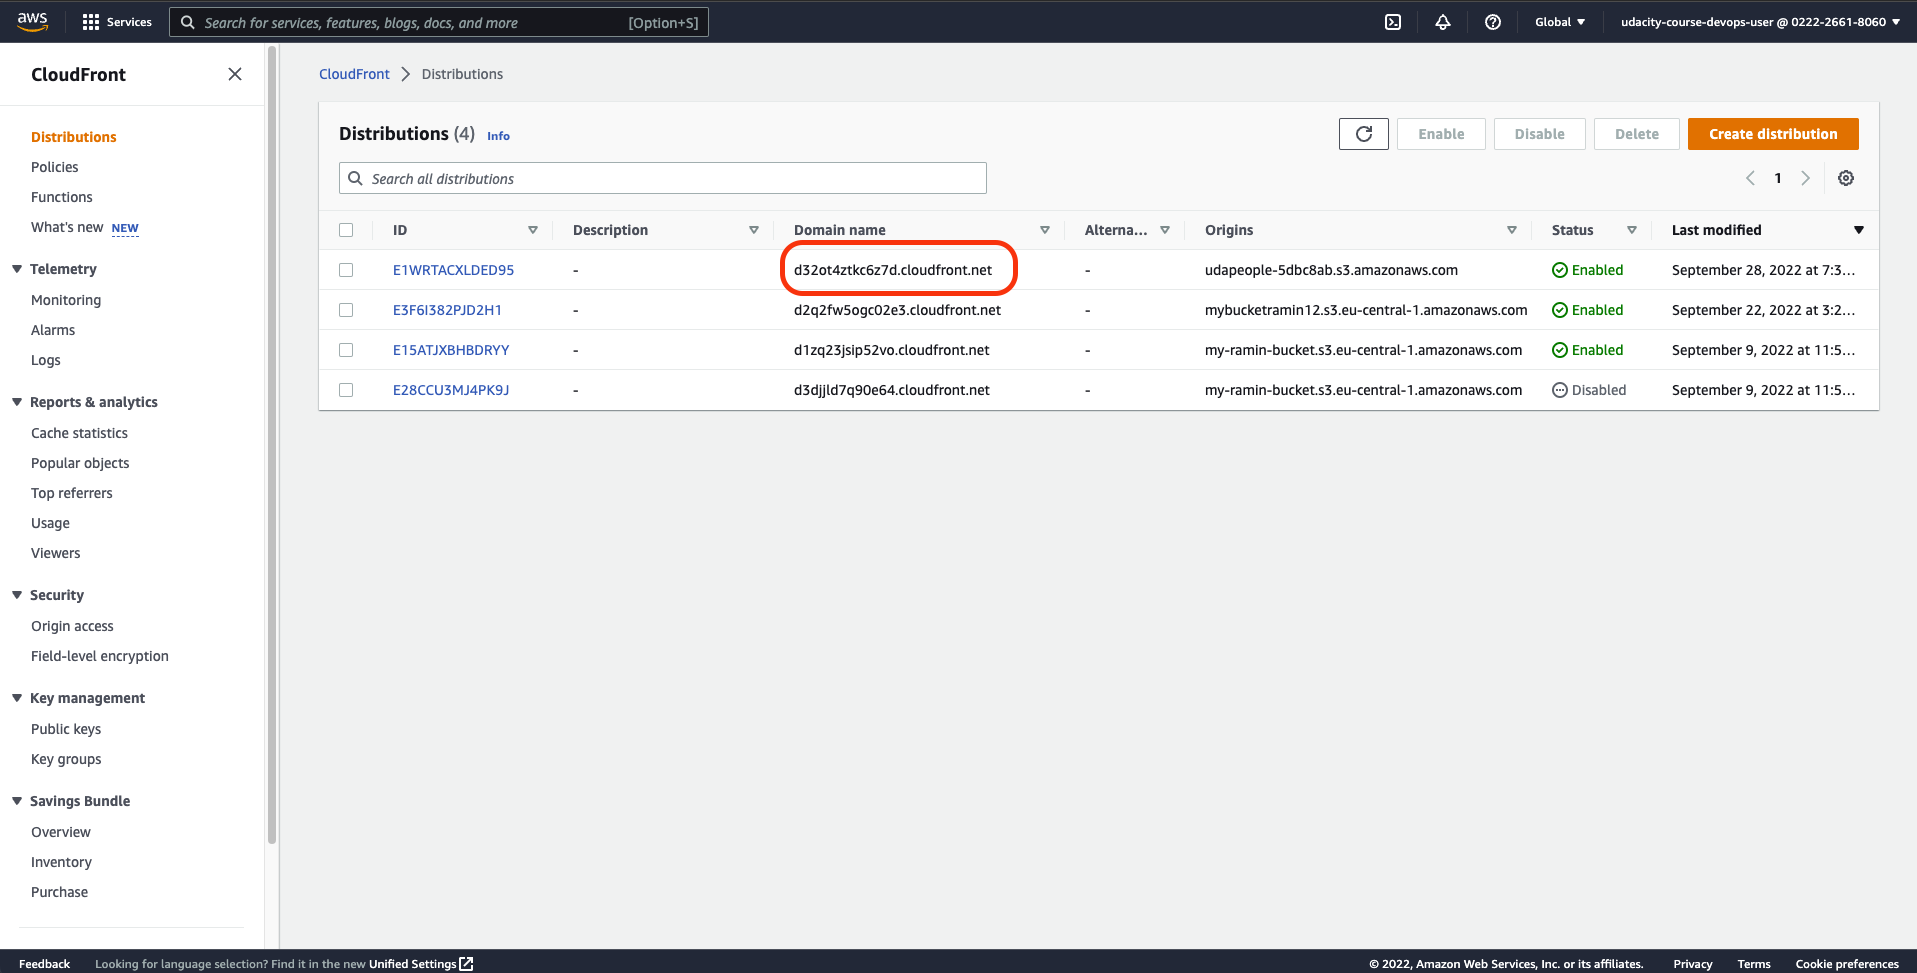
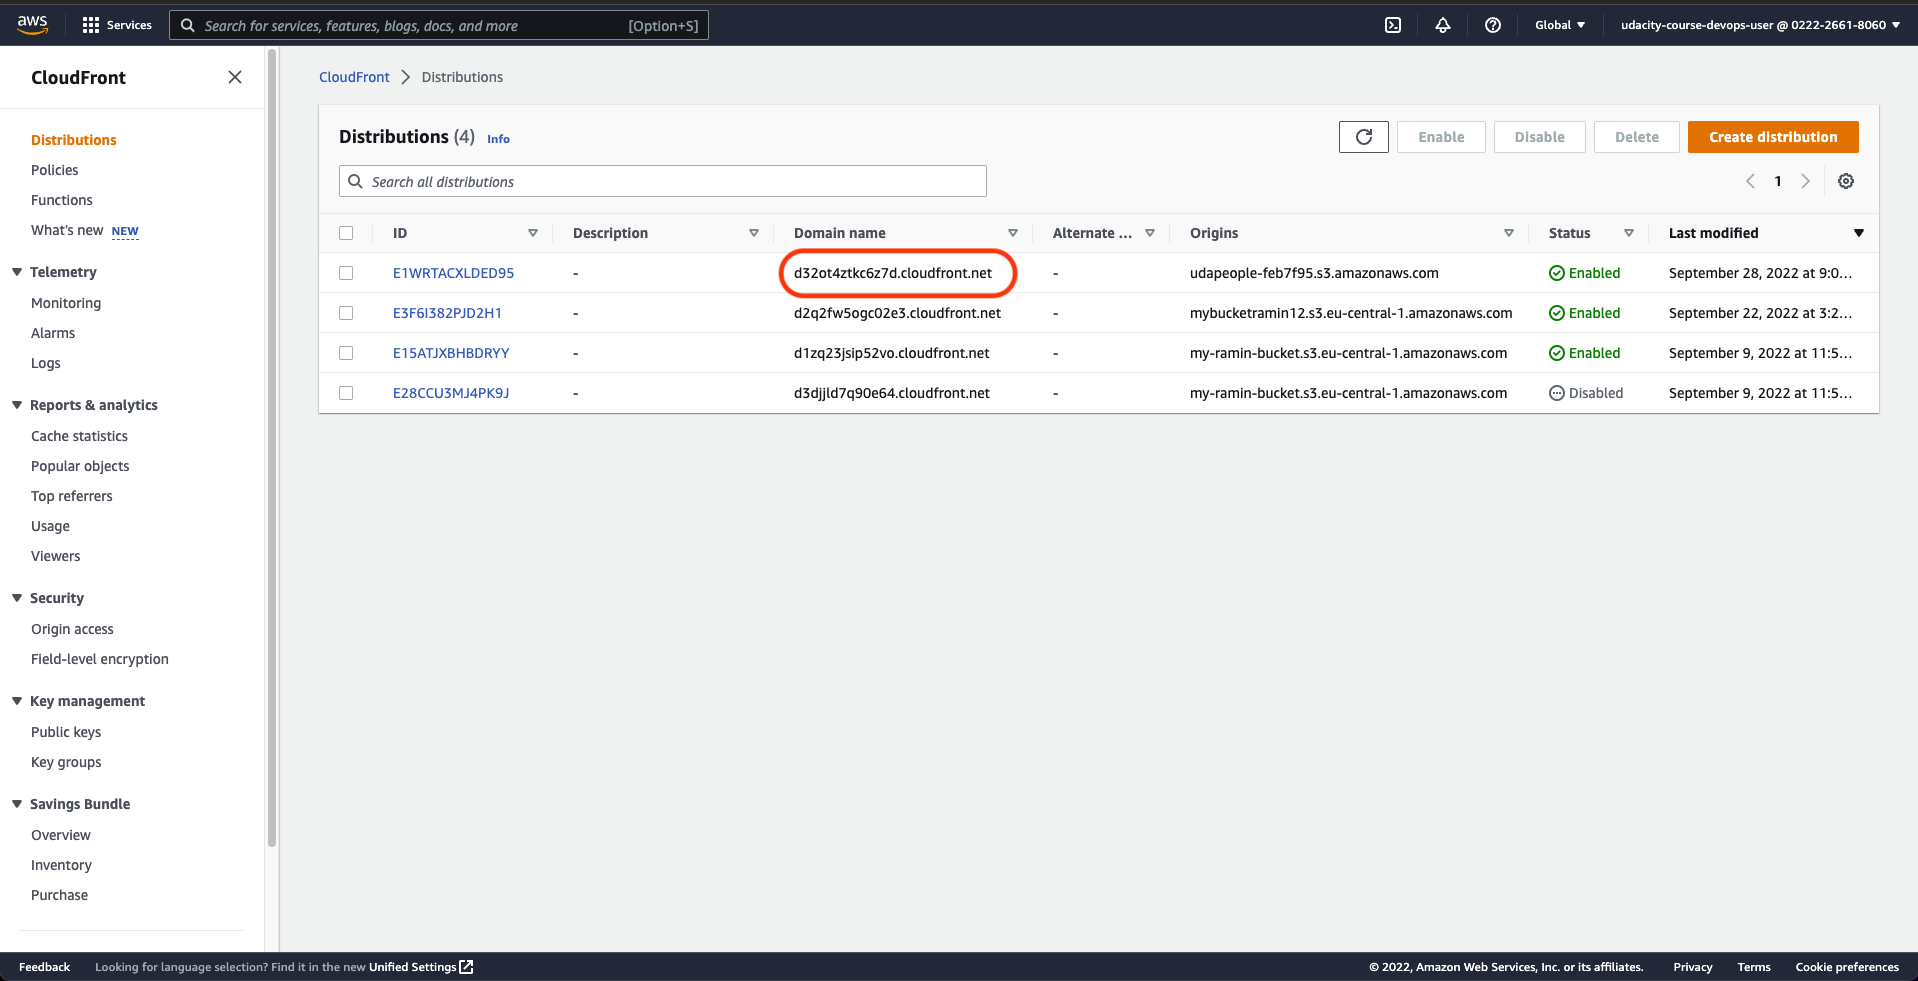
Add loggin screenshots.

diff --git a/README.md b/README.md
@@ -63,6 +63,8 @@ Before you submit your project, please check your work against the project rubri
 
 [License](LICENSE.md)
 
+### URLs for Project Submission to Udacity Review
+
 [URL01](https://github.com/RaminMammadzada/autodeploy_with_ci_cd_tools)
 
-[URL02](https://udapeople-2fc6075.s3.eu-central-1.amazonaws.com/index.html)
+[URL02](https://udapeople-5dbc8ab.s3.eu-central-1.amazonaws.com/index.html)
